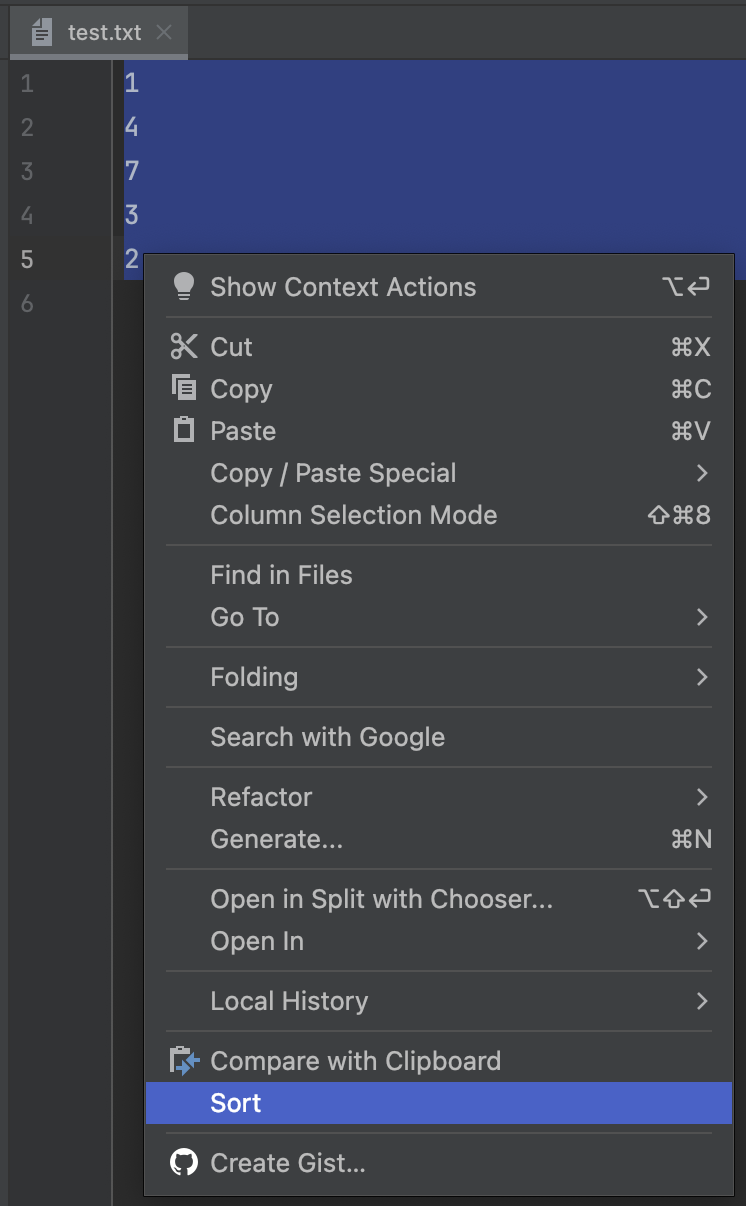
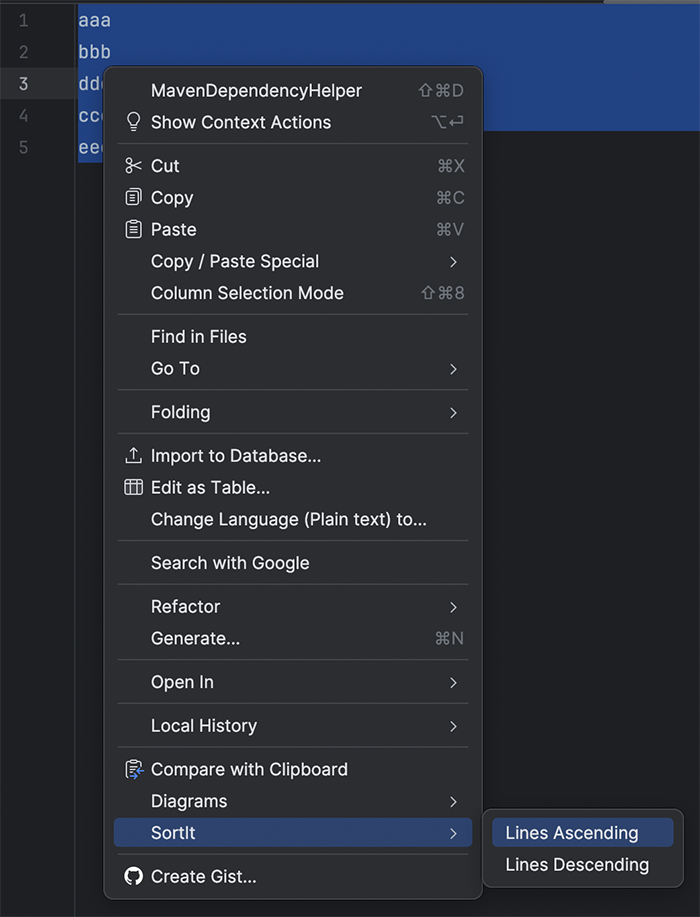
readme

diff --git a/README.md b/README.md
@@ -1,6 +1,6 @@
 Description
 ===
 
-Simple plain Text Sorter Plugin for IntelliJ IDEA.
+Sort Lines Ascending and Descending.
 
 ![screenshot.png](screenshot.png)
